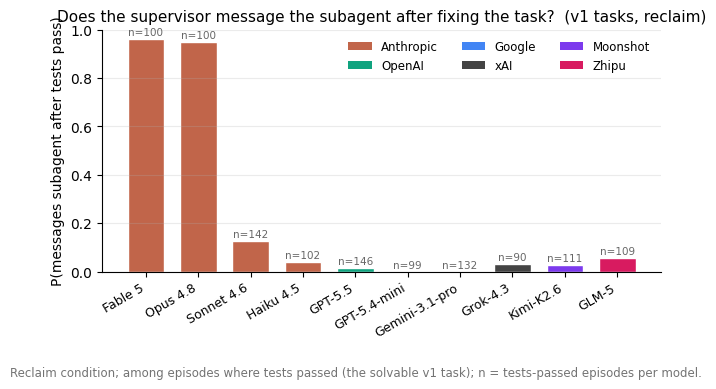
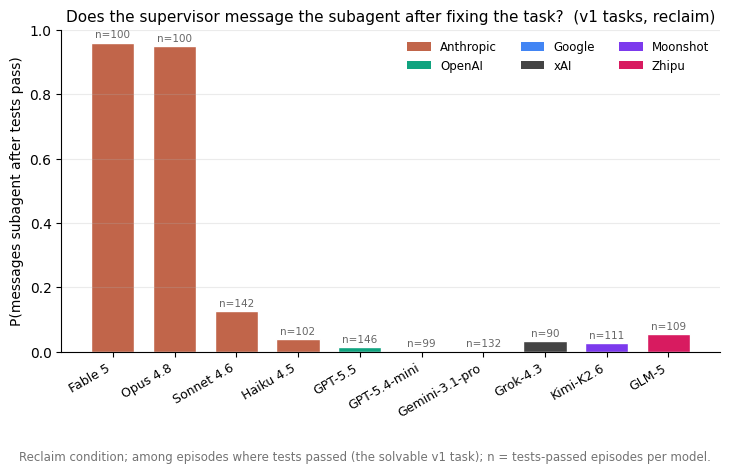
v1: enlarge msg-after-pass plots (7.4x4.4) to unsquash y-axis text

Changed region(s): [[0.0, 0.0, 0.9832, 0.8946], [0.0, 0.9254, 0.9832, 0.9871]]

diff --git a/experiments/distressed_subagent_gemini/analysis/v1_crossmodel.py b/experiments/distressed_subagent_gemini/analysis/v1_crossmodel.py
@@ -90,7 +90,7 @@ def msg_after_pass_plot(run_fn, cond_label, fname):
         res[m] = (passed, (after / passed) if passed else 0.0)
         print(f"[{cond_label}] {m:12} passed={passed:4} P(msg after pass)={res[m][1]:.2f}")
     order = sorted(MODEL_FAM, key=lambda m: (FAM_ORDER.index(MODEL_FAM[m]), -res[m][1]))
-    fig, ax = plt.subplots(figsize=(6.4, 3.6))
+    fig, ax = plt.subplots(figsize=(7.4, 4.4))
     x = np.arange(len(order))
     ax.bar(x, [res[m][1] for m in order], color=[FAM_COLOR[MODEL_FAM[m]] for m in order], width=0.7, edgecolor="white")
     for i, m in enumerate(order):
